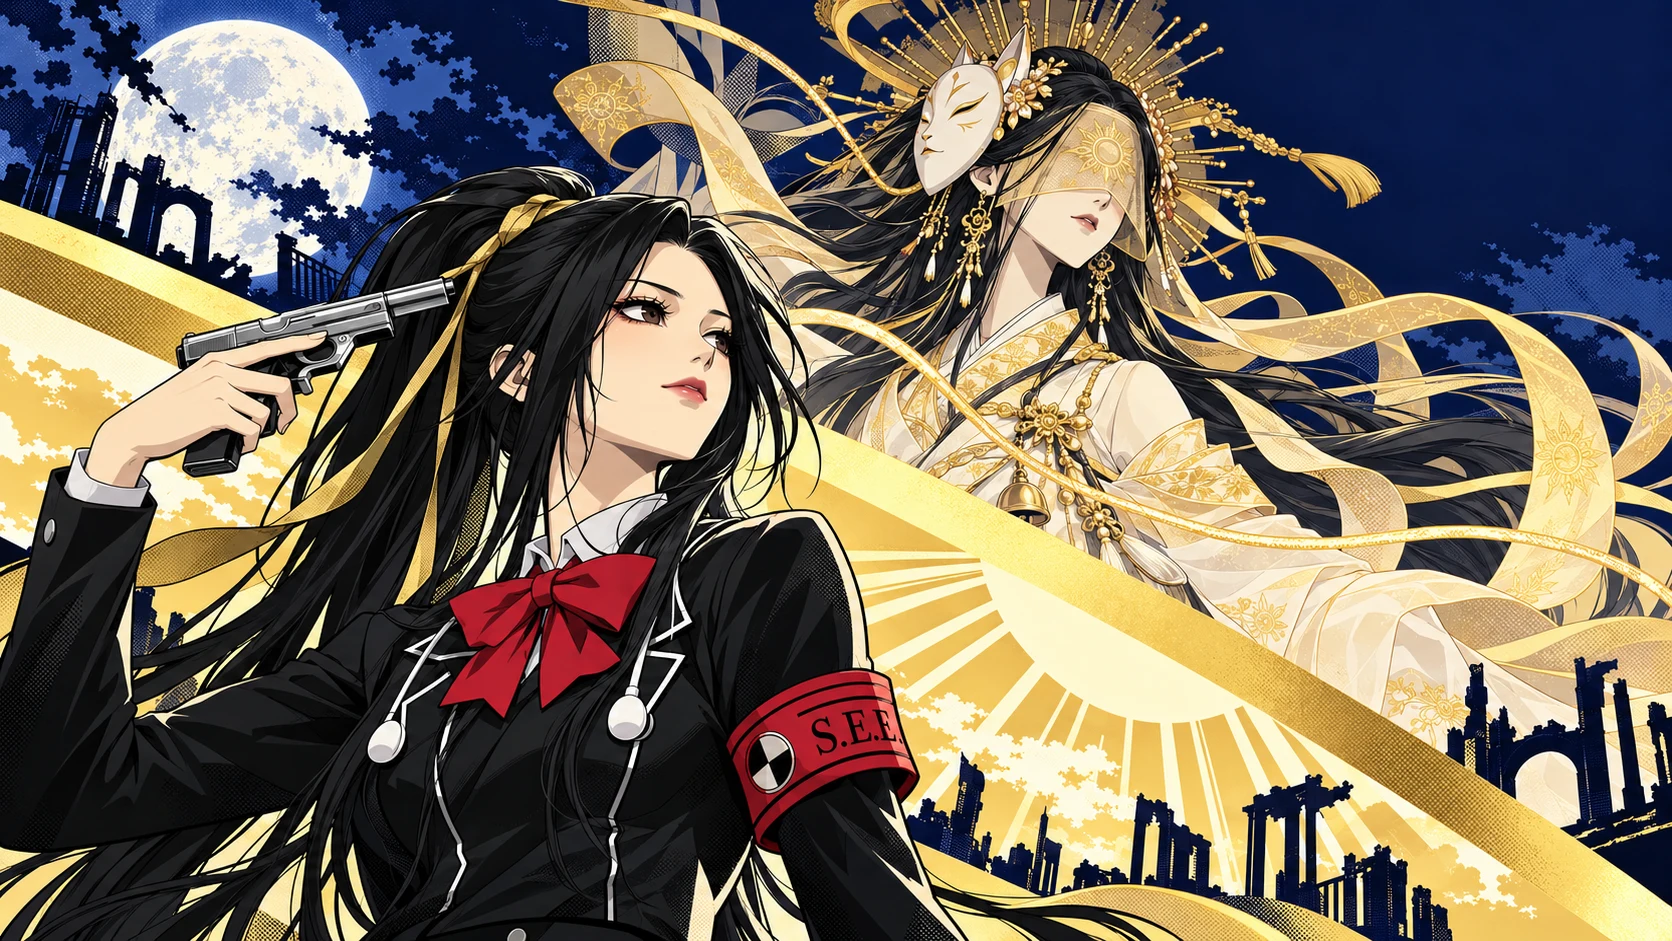
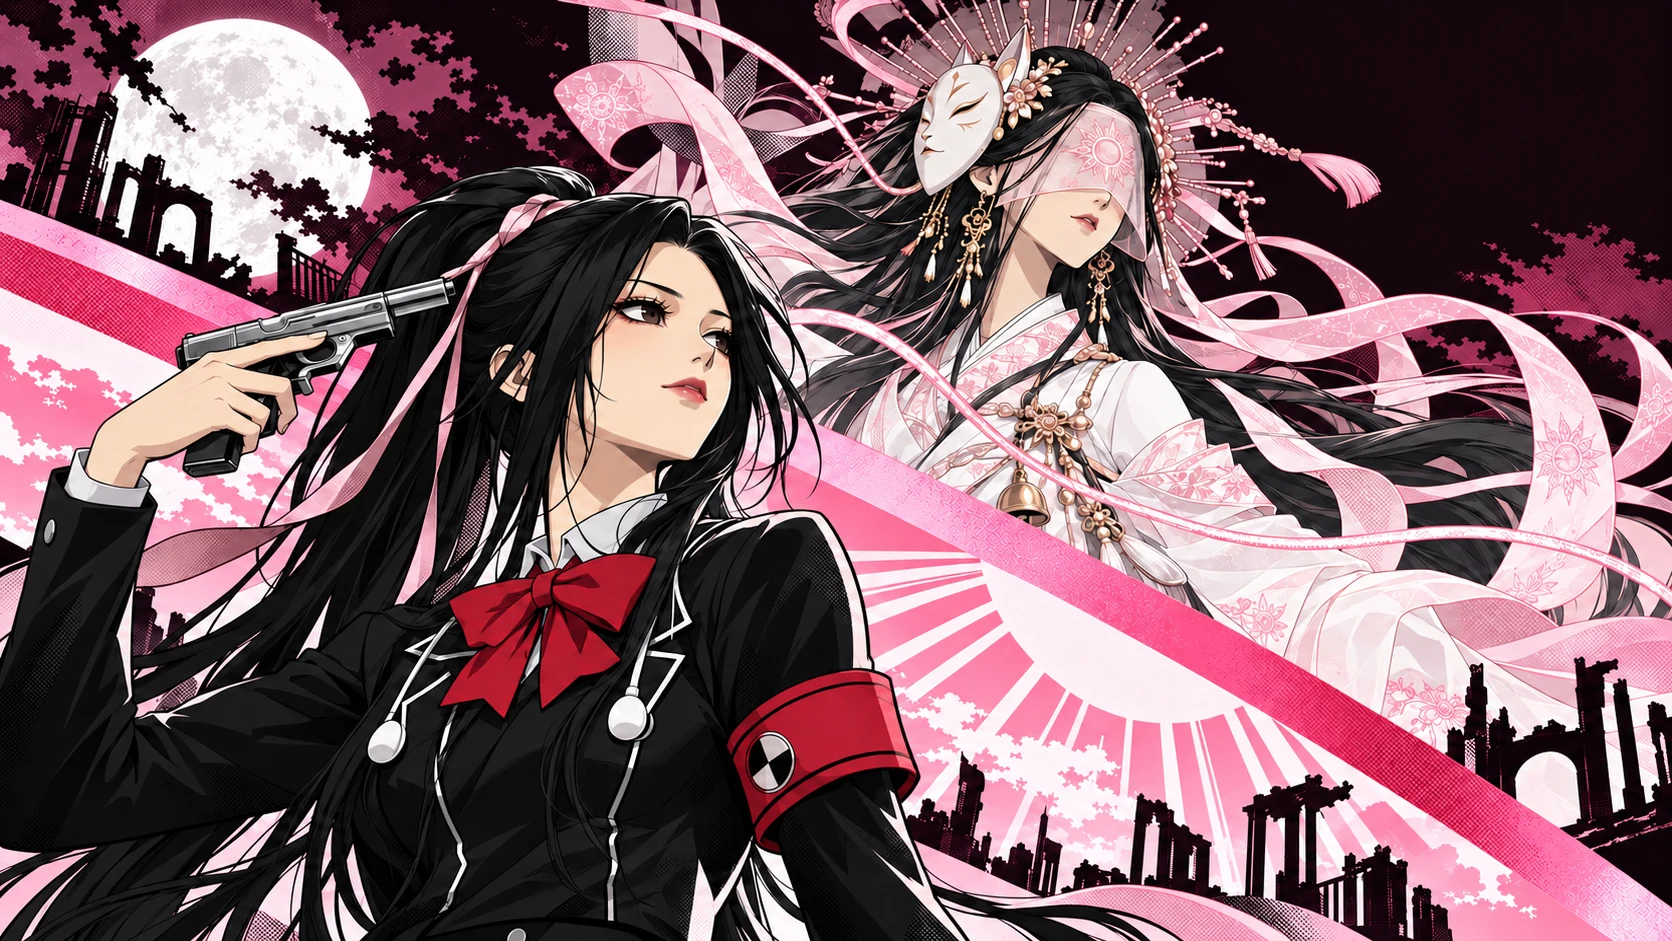
Title: Kat's pink and black recolour of the C3 cover

diff --git a/assets/femc/game/ui.js b/assets/femc/game/ui.js
@@ -712,7 +712,7 @@
     const splash = !titleWoke && !navigator.userActivation?.hasBeenActive;
     const tap = matchMedia('(hover: none)').matches;
     show(`<section class="g-title${splash ? ' is-splash' : ''}">
-      <div class="g-title-stage"><img class="g-title-art" src="${G.base}assets/femc/title/cover.webp" alt=""></div>
+      <div class="g-title-stage"><img class="g-title-art" src="${G.base}assets/femc/title/cover.webp?v=2" alt=""></div>
       <div class="g-title-moon" aria-hidden="true"></div><div class="g-title-fx" aria-hidden="true"></div>
       <div class="g-title-copy"><h1 class="g-logo" aria-label="Persona 3: Solstice"><span class="g-logo-text" aria-hidden="true">Solstice<small>Persona 3 · Every Universe</small></span></h1>
       <button type="button" class="g-title-press">${tap ? 'Tap to start' : 'Press any key'}</button>

diff --git a/femc-game.html b/femc-game.html
@@ -158,7 +158,7 @@
   <script src="assets/femc/game/stamps.js?v=4"></script>
   <script src="assets/femc/game/epilogue.js?v=52"></script>
   <script src="assets/femc/game/glitch.js?v=4"></script>
-  <script src="assets/femc/game/ui.js?v=39"></script>
+  <script src="assets/femc/game/ui.js?v=40"></script>
   <script src="assets/femc/battle/pad.js?v=1"></script>
 </body>
 </html>

diff --git a/FEMC-ART-TODO.md b/FEMC-ART-TODO.md
@@ -2,7 +2,7 @@
 
 Cleaned Oct 31 2026: only what's still to make. **Every attachment is in `Femc Mode Images/Place Prompt Attachments/`**, named after its item.
 
-**To make:** the cover in pink and black ⭐ · 1 HOAX picture fix (4C). **Optional:** 15 wardrobe items · 4 Stay hanami face sheets. **Parked:** `FEMC-ART-BACKBURNER.md`.
+**To make:** 1 HOAX picture fix (4C). **Optional:** 15 wardrobe items · 4 Stay hanami face sheets. **Parked:** `FEMC-ART-BACKBURNER.md`.
 
 **How to use this list**
 - Attach the files on each item's **Attach** line, in that order, then paste the prompt.
@@ -12,13 +12,8 @@ Cleaned Oct 31 2026: only what's still to make. **Every attachment is in `Femc M
 
 ---
 
-## 1. ⭐ The cover in pink and black (ChatGPT)
-Kat kept the C3 style but went back to the game's original pink and black, and C3's blue and yellow now clash with the title screen. This is an edit: same picture, new colours.
-Attach: `Cover pink - picture to edit.png`
-Save as: `solstice-c3-pink.png`
-```
-Edit this image. Keep everything exactly the same: the composition, both characters, their faces, poses, hair, clothes and the art style. Change only the colours of the background and the light: the night sky becomes a deep black-plum instead of navy blue, the big diagonal slash and the sunrise become hot pink and rose with soft white light, the sun rays and clouds become pale pink and white, and the moon becomes pure white. Haenim's robes stay white and her ribbons become pale pink and white, with only tiny touches of gold on her crown and jewellery. Keep Solar's red bow and red armband as they are. The whole picture should read as pink, black and white, with just a few small gold accents. No text.
-```
+## 1. The cover
+*(Done Oct 31: the pink and black edit of C3 is the title art.)*
 
 ---
 
